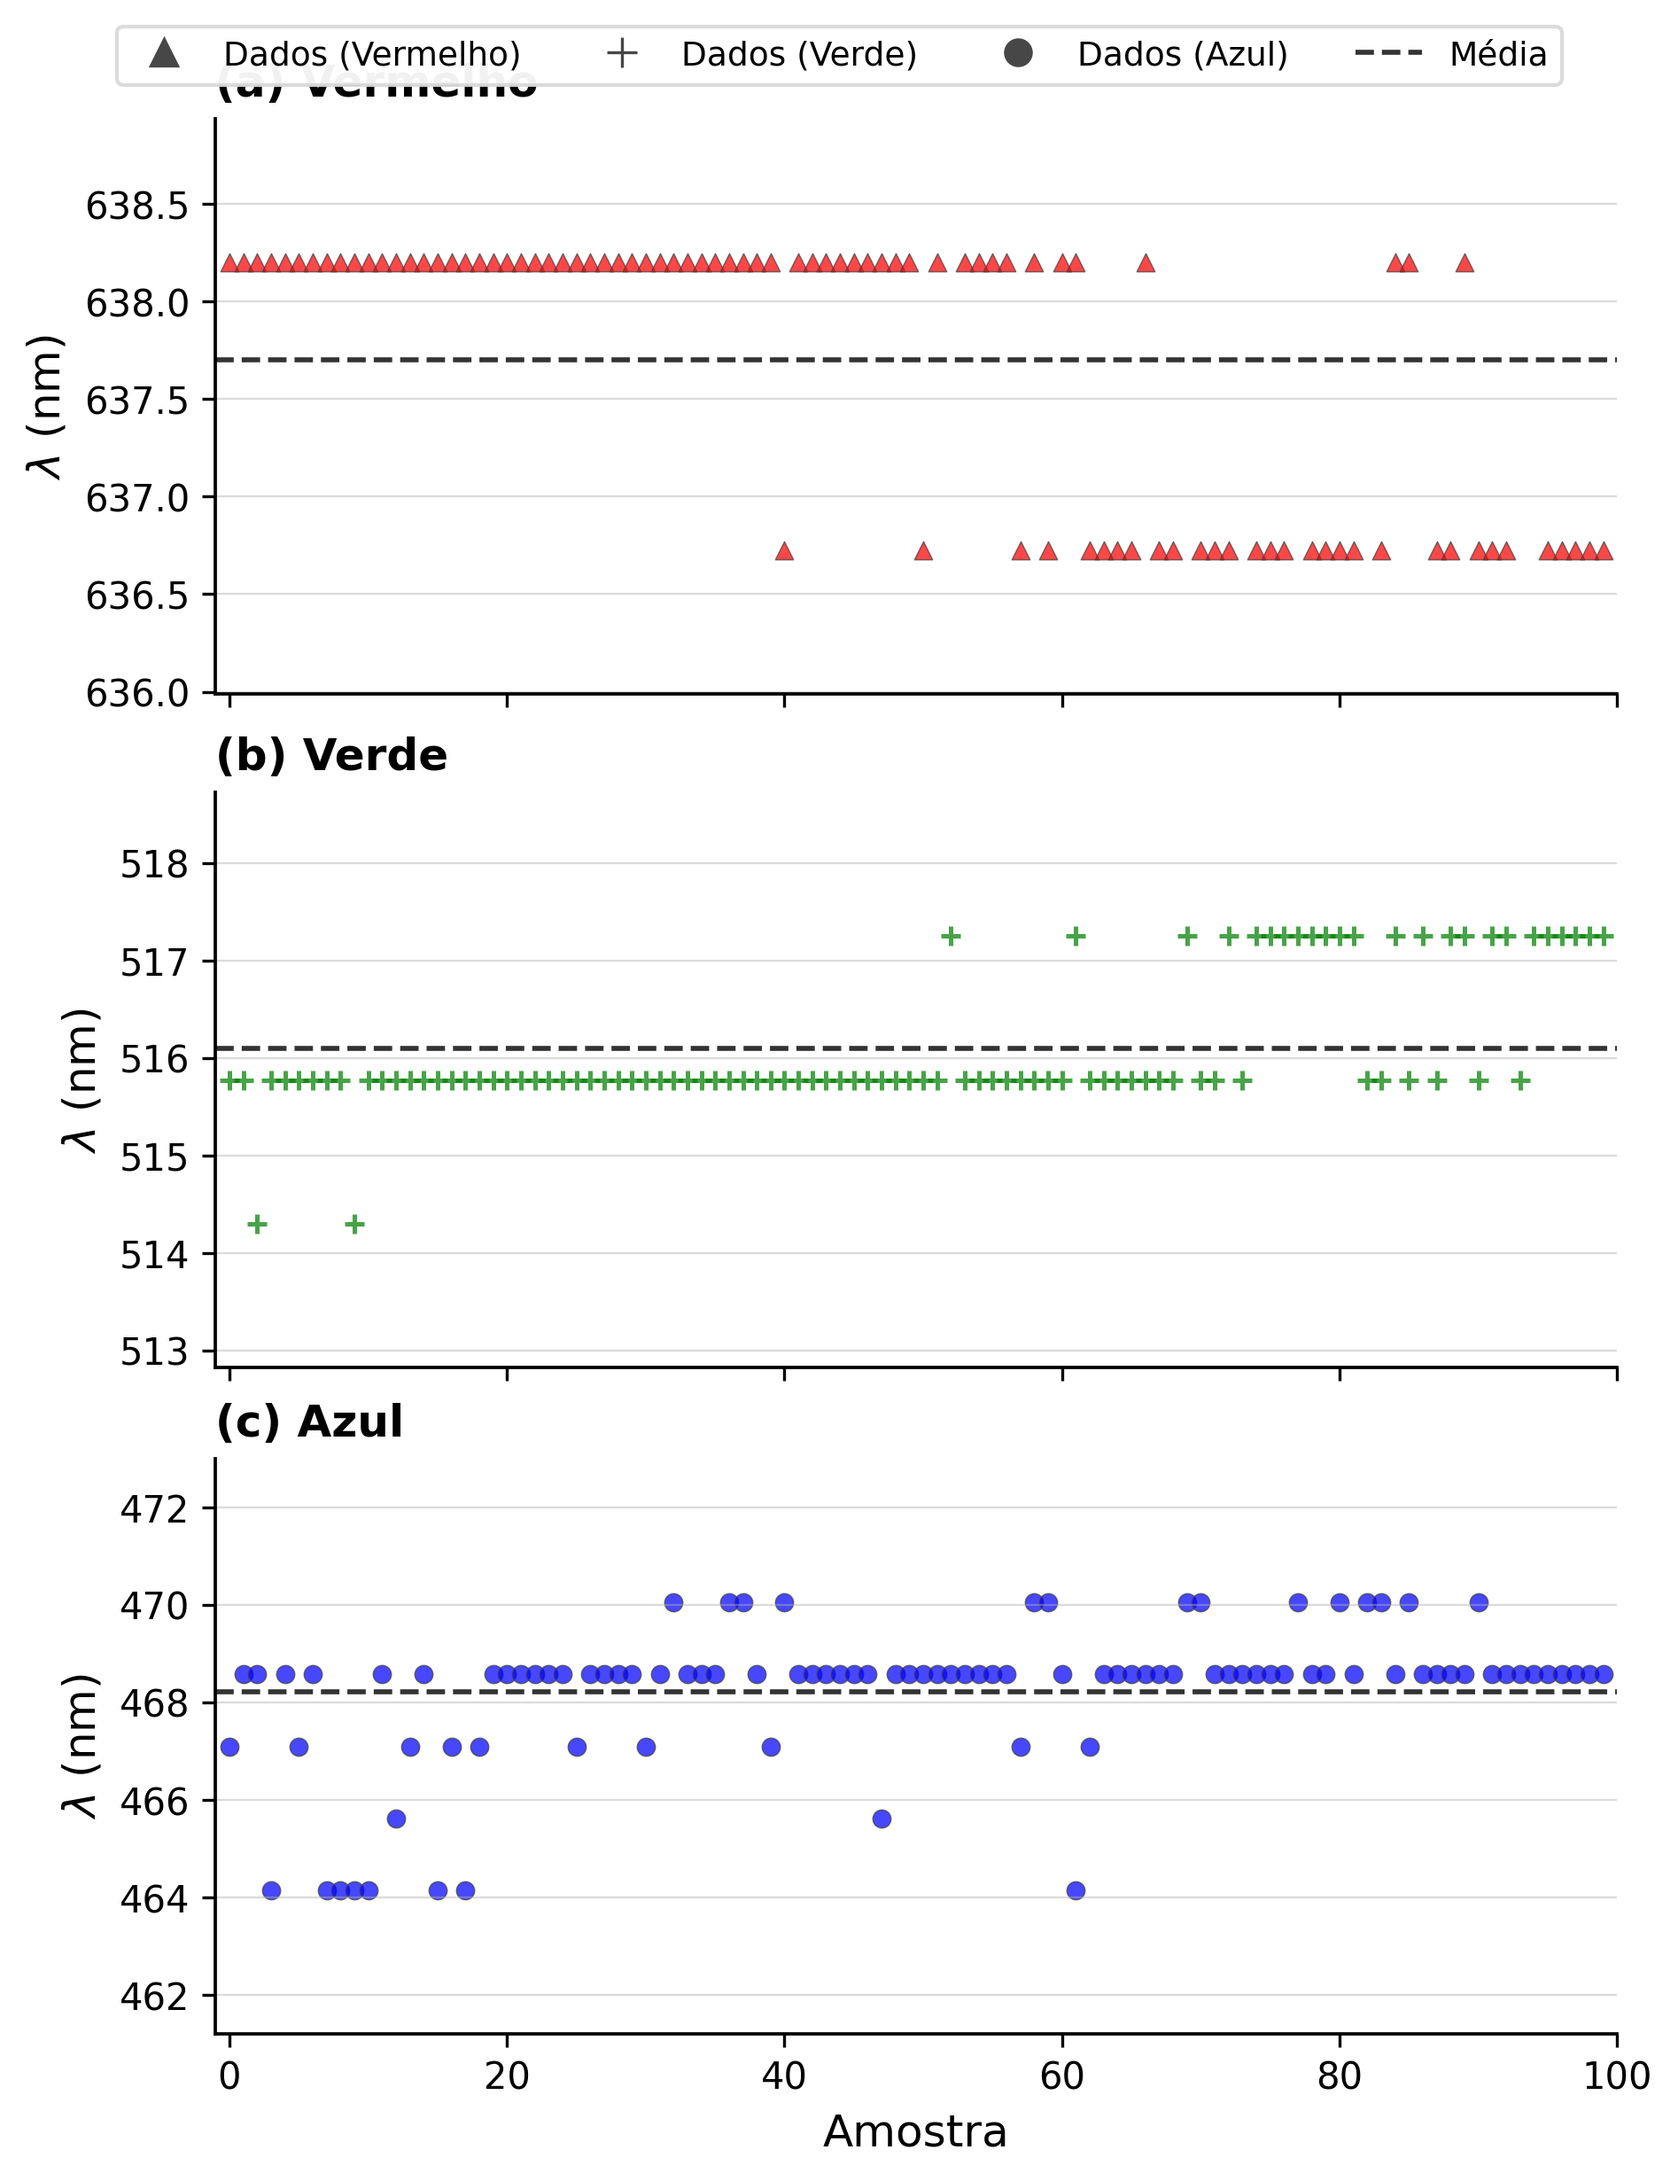
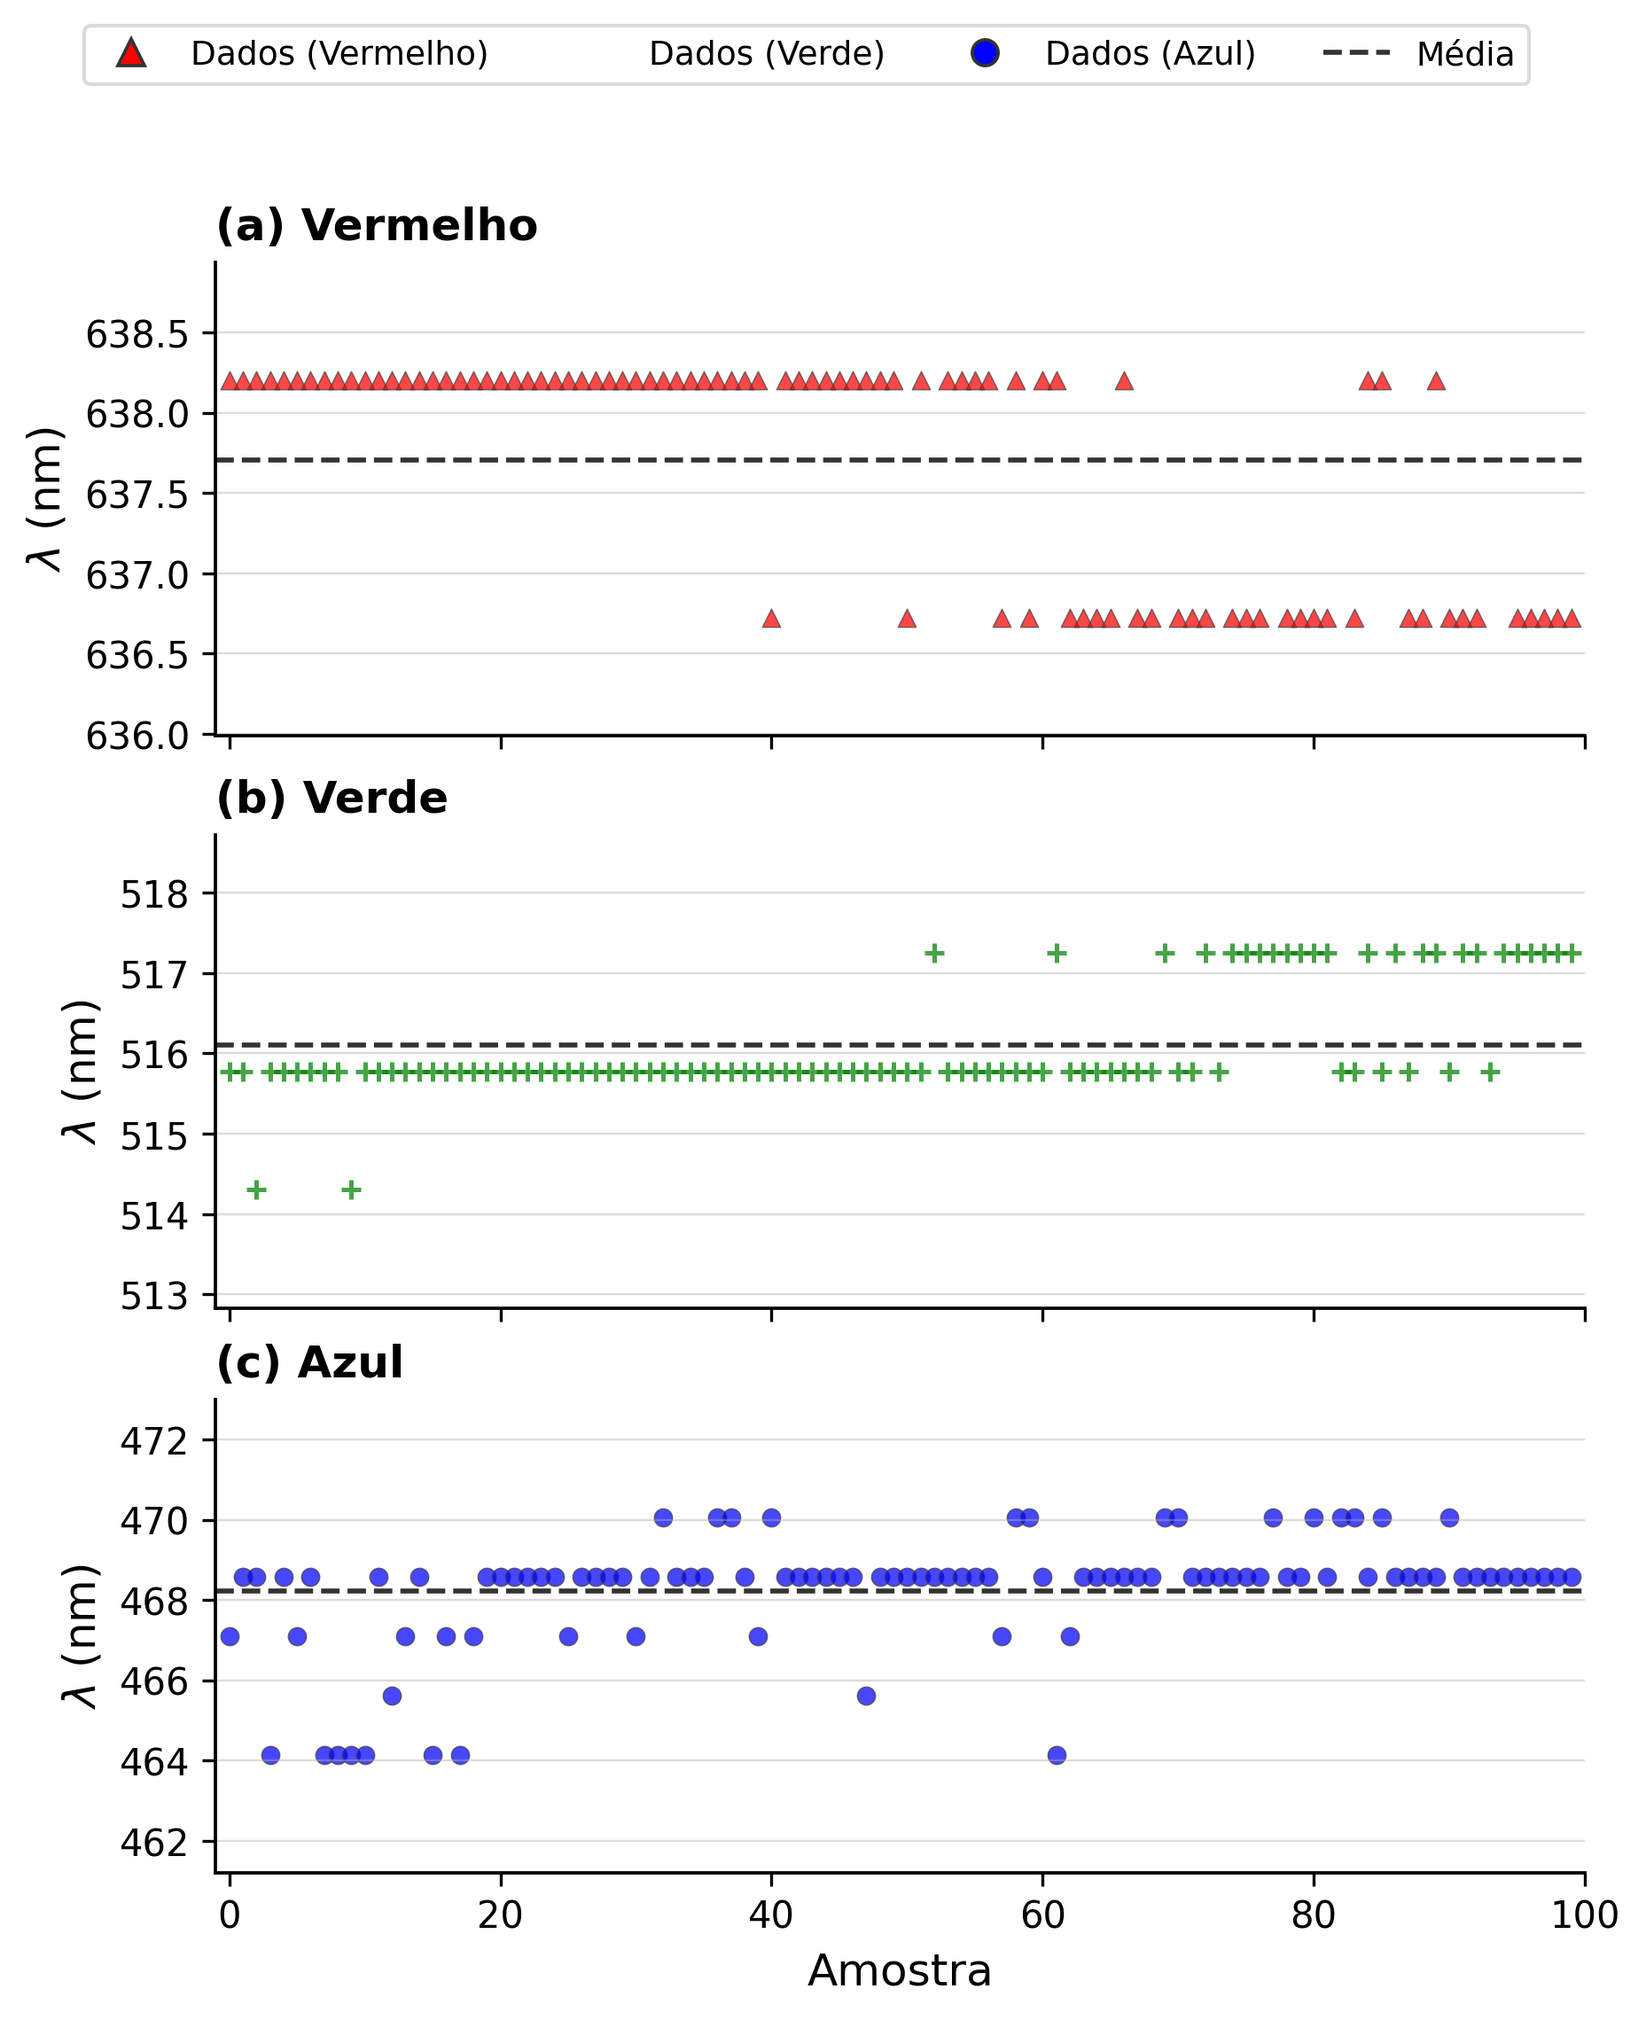
Fix temporal plot legend layout and use channel colors in legend
Reserve top margin with constrained_layout rect, place figure legend in figure coordinates above panels, and color Dados legend markers to match each RGB trace; regenerate evolucao_temporal PNGs.

Made-with: Cursor

diff --git a/Experimentos/scripts/analise2paper.py b/Experimentos/scripts/analise2paper.py
@@ -619,18 +619,19 @@ def gerar_graficos_estatisticos(grupos_picos, estatisticas_df, fonte="visible"):
     letters = "abcdefghijklmnopqrstuvwxyz"
 
     # --- Gráfico 1: evolução temporal (enxuto para paper) ---
-    # Marcadores por painel (ordem RVG): triângulo, +, círculo; legenda em cinza escuro.
+    # Marcadores por painel (ordem RVG): triângulo, +, círculo; legenda com mesma cor.
     markers_temporal = ("^", "+", "o")
-    cor_legenda_dados = "0.28"
 
     with plt.rc_context(_matplotlib_paper_context()):
         fig, axes = plt.subplots(
             num_grupos,
             1,
-            figsize=(6.2, 2.35 * num_grupos + 0.9),
+            figsize=(6.2, 2.35 * num_grupos + 1.05),
             sharex=True,
             constrained_layout=True,
         )
+        # Reserva faixa superior para a legenda sem sobrepor titulos dos paineis
+        fig.set_constrained_layout_pads(rect=(0.02, 0.03, 0.98, 0.84))
         if num_grupos == 1:
             axes = [axes]
 
@@ -691,17 +692,20 @@ def gerar_graficos_estatisticos(grupos_picos, estatisticas_df, fonte="visible"):
             mk = markers_temporal[idx % len(markers_temporal)]
             nome = gd.get("nome_cor", "?")
             ms = 7 if mk != "+" else 8
+            c_cor = gd.get("cor_rgb", "blue")
+            mew = 0.9 if mk != "+" else 0.0
+            mec = "0.2" if mk != "+" else c_cor
             handles_legenda.append(
                 Line2D(
                     [0],
                     [0],
                     marker=mk,
                     linestyle="none",
-                    color=cor_legenda_dados,
-                    markerfacecolor=cor_legenda_dados,
-                    markeredgecolor=cor_legenda_dados,
+                    color=c_cor,
+                    markerfacecolor=c_cor,
+                    markeredgecolor=mec,
                     markersize=ms,
-                    markeredgewidth=0.8,
+                    markeredgewidth=mew,
                     label=f"Dados ({nome})",
                 )
             )
@@ -710,8 +714,9 @@ def gerar_graficos_estatisticos(grupos_picos, estatisticas_df, fonte="visible"):
         )
         fig.legend(
             handles=handles_legenda,
-            loc="upper center",
-            bbox_to_anchor=(0.5, 1.02),
+            loc="center",
+            bbox_to_anchor=(0.5, 0.935),
+            bbox_transform=fig.transFigure,
             ncol=min(4, len(handles_legenda)),
             framealpha=0.95,
             edgecolor="0.85",
